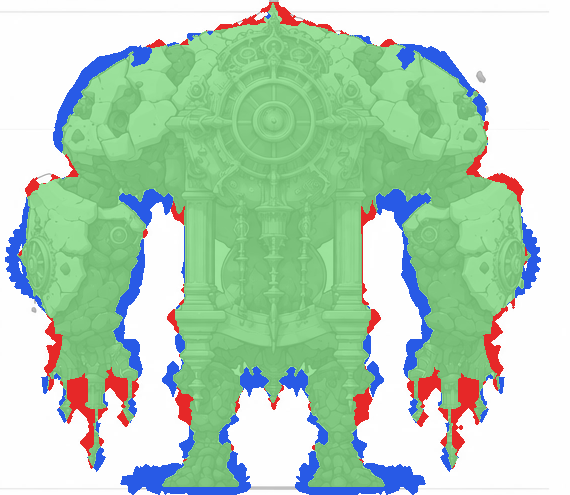
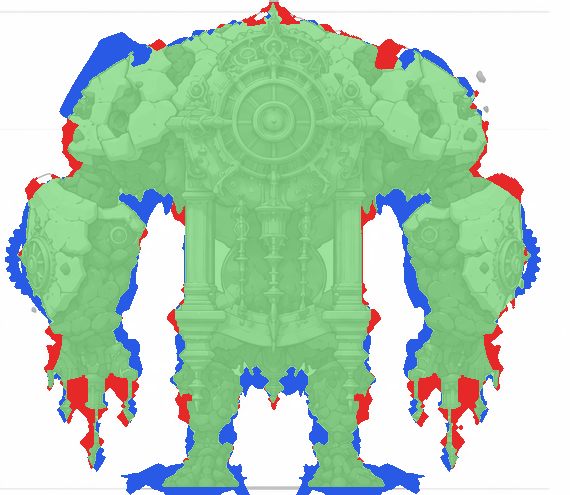
Crust breaks out along its cracks; smoother plate walls and hole floors
Missing cells drop to rock depth, cracks step the plates, walls are relaxed
along a narrow band, materials are chosen by depth below the smooth surface,
and hole floors get broad lumps so the ink lines do not hatch them.

Claude-Session: https://claude.ai/code/session_01FNFarjoLRDbQgoSADGzhtj

diff --git a/golem/rockform.py b/golem/rockform.py
@@ -53,11 +53,14 @@ def _variable_seeds(bm, rng, size_range):
 def faceted(ob, seed, size_range=(0.10, 0.30), relief=0.035, tilt_deg=14, flatten=0.85,
             crack_p=0.55, crack_w=0.018, crack_d=0.016, crease_w=0.06,
             spike_p=0.12, spike_h=0.07, dent_p=0.12, dent_d=0.035, warp=0.06, warp_freq=4.0, smooth=2,
-            ink="cracks"):
+            ink="cracks", missing_p=0.0, missing_d=0.14, step_cracks=False, wall_w=0.025):
     """Break a smooth surface into irregular facets, spikes, dents and cracks.
 
     ink: which cell borders get a Freestyle edge mark (the sheet's ink lines):
     "cracks", "all" or None.
+    missing_p: share of cells that drop to missing_d below the surface (a
+    plate broken out along its cracks).  step_cracks: no crease blending
+    across cracks, so the plates on either side sit at different heights.
     """
     rng = random.Random(seed)
     bm = bmesh.new()
@@ -81,7 +84,9 @@ def faceted(ob, seed, size_range=(0.10, 0.30), relief=0.035, tilt_deg=14, flatte
         n = (Matrix.Rotation(math.radians(rng.uniform(0, tilt_deg)), 3, axis) @ n).normalized()
         kind = rng.random()
         h = rng.uniform(-relief * 0.4, relief)
-        if kind < spike_p:
+        if rng.random() < missing_p:
+            planes.append(("missing", s, n, size, 0.0))
+        elif kind < spike_p:
             planes.append(("spike", s + vn[vi] * h, n, size, spike_h * rng.uniform(0.6, 1.3)))
         elif kind < spike_p + dent_p:
             planes.append(("dent", s + vn[vi] * (h - dent_d * rng.uniform(0.6, 1.3)), n, size, 0.0))
@@ -97,6 +102,8 @@ def faceted(ob, seed, size_range=(0.10, 0.30), relief=0.035, tilt_deg=14, flatte
 
     def offset(i, v, nv):
         kind, c, n, size, peak = planes[i]
+        if kind == "missing":
+            return -missing_d
         den = nv.dot(n)
         if abs(den) < 0.2:
             den = 0.2 if den >= 0 else -0.2
@@ -106,9 +113,13 @@ def faceted(ob, seed, size_range=(0.10, 0.30), relief=0.035, tilt_deg=14, flatte
             t += peak * max(0.0, 1.0 - 2.2 * r)
         return max(-0.12, min(0.16, t))
 
+    def is_missing(i):
+        return planes[i][0] == "missing"
+
     woff = Vector((rng.uniform(0, 99), rng.uniform(0, 99), rng.uniform(0, 99)))
     disp = {}
     cell = {}
+    walls = set()
     for v in bm.verts:
         nv = vn[v.index]
         # warp the lookup point so cell borders wander instead of running straight
@@ -118,12 +129,17 @@ def faceted(ob, seed, size_range=(0.10, 0.30), relief=0.035, tilt_deg=14, flatte
         cell[v.index] = i
         e = (d2 - d1) * 0.5
         t = offset(i, v.co, nv)
-        if e < crease_w:
-            # meet the neighbour facet along a crease instead of a step
+        sharp = is_missing(i) or is_missing(j) or (step_cracks and crack(i, j))
+        # meet the neighbour facet along a crease; steps get a short steep slope
+        # (several vertex rows) instead of one stretched wall
+        bw = wall_w if sharp else crease_w
+        if sharp and e < wall_w * 1.8:
+            walls.add(v)
+        if e < bw:
             tj = offset(j, v.co, nv)
-            w = 0.5 * (1 - e / crease_w)
+            w = 0.5 * (1 - e / bw)
             t = t * (1 - w) + tj * w
-        if e < crack_w and crack(i, j):
+        if e < crack_w and crack(i, j) and not is_missing(i):
             t -= crack_d * (1 - e / crack_w) ** 1.5
         disp[v] = t
     # relax the displacement a little: removes voxel stair-steps along borders
@@ -132,6 +148,15 @@ def faceted(ob, seed, size_range=(0.10, 0.30), relief=0.035, tilt_deg=14, flatte
         for v, t in disp.items():
             nb = [disp[e.other_vert(v)] for e in v.link_edges]
             new[v] = 0.5 * t + 0.5 * sum(nb) / len(nb) if nb else t
+        disp = new
+    # steps between plates: extra relaxing along the wall band only, so the
+    # wall follows the crack line instead of the voxel grid
+    for _ in range(8):
+        new = dict(disp)
+        for v in walls:
+            nb = [disp[e.other_vert(v)] for e in v.link_edges]
+            if nb:
+                new[v] = 0.4 * disp[v] + 0.6 * sum(nb) / len(nb)
         disp = new
     for v, t in disp.items():
         v.co += vn[v.index] * t
@@ -191,8 +216,28 @@ def _blob(bm_out, center, normal, size, rng, jag=0.25, min_depth=0.0):
     bpy.data.meshes.remove(me)
 
 
+def _depth_materials(ob, surface, thickness, material, rock_material, seed):
+    """Faces deeper than the crust are rock (with a rough floor); the rest white."""
+    me = ob.data
+    rock_idx = [i for i, m in enumerate(me.materials) if m == rock_material][0]
+    white_idx = [i for i, m in enumerate(me.materials) if m == material][0]
+    off = Vector((seed * 1.3, seed * 2.1, seed * 0.7))
+    floor_verts = set()
+    for poly in me.polygons:
+        _, _, _, dist = surface.find_nearest(poly.center)
+        if dist is not None and dist > thickness:
+            poly.material_index = rock_idx
+            floor_verts.update(poly.vertices)
+        else:
+            poly.material_index = white_idx
+    for vi in floor_verts:   # broad lumps only: fine noise turns into hatching under the ink lines
+        v = me.vertices[vi]
+        v.co += v.normal * (0.018 * noise.noise(v.co * 3.5 + off))
+    me.update()
+
+
 def crust(name, volumes, material, rock_material, seed, voxel=0.011, thickness=0.085, holes=18,
-          hole_size=(0.13, 0.32), keep=None, extra_cuts=(), **kw):
+          hole_size=(0.13, 0.32), keep=None, extra_cuts=(), missing_p=0.2, **kw):
     """White crust over rock, faceted and cracked, torn open in patches.
 
     The faceted solid is cut with irregular blobs (Boolean).  Cut faces get
@@ -204,10 +249,11 @@ def crust(name, volumes, material, rock_material, seed, voxel=0.011, thickness=0
     outer = stone.carrier(name, volumes, voxel=voxel, smooth=6)
     outer.data.materials.append(material)
     outer.data.materials.append(rock_material)
-    faceted(outer, seed, size_range=(0.25, 0.7), relief=0.016, tilt_deg=6, flatten=0.85, crack_p=0.6,
-            crack_w=0.016, crack_d=0.035, crease_w=0.12, spike_p=0.0, dent_p=0.06, dent_d=0.02, warp=0.08,
-            smooth=1, **kw)
+    # the smooth surface before breaking it: depth below it decides crust vs rock
     surface = BVHTree.FromObject(outer, bpy.context.evaluated_depsgraph_get())
+    faceted(outer, seed, size_range=(0.22, 0.6), relief=0.03, tilt_deg=7, flatten=0.85, crack_p=0.65,
+            crack_w=0.016, crack_d=0.03, crease_w=0.12, spike_p=0.0, dent_p=0.05, dent_d=0.02, warp=0.08,
+            smooth=1, missing_p=missing_p, missing_d=thickness * 1.6, step_cracks=True, **kw)
     pts = [v.co.copy() for v in outer.data.vertices]
     nrm = [v.normal.copy() for v in outer.data.vertices]
     cut = bmesh.new()
@@ -240,6 +286,7 @@ def crust(name, volumes, material, rock_material, seed, voxel=0.011, thickness=0
         placed.append((Vector(c), max(r)))
     if not placed:
         cut.free()
+        _depth_materials(outer, surface, thickness, material, rock_material, seed)
         return outer
     cme = bpy.data.meshes.new(name + "_cut")
     cut.to_mesh(cme)
@@ -259,26 +306,7 @@ def crust(name, volumes, material, rock_material, seed, voxel=0.011, thickness=0
     outer.data = new
     bpy.data.meshes.remove(old)
     bpy.data.objects.remove(cutter, do_unlink=True)
-    # material by depth, and roughen the rock floors
-    me = outer.data
-    rock_idx = [i for i, m in enumerate(me.materials) if m == rock_material][0]
-    white_idx = [i for i, m in enumerate(me.materials) if m == material][0]
-    off = Vector((seed * 1.3, seed * 2.1, seed * 0.7))
-    floor_verts = set()
-    for poly in me.polygons:
-        if poly.material_index != rock_idx:
-            continue
-        c = poly.center
-        loc, _, _, dist = surface.find_nearest(c)
-        if dist is not None and dist < thickness:
-            poly.material_index = white_idx
-        else:
-            floor_verts.update(poly.vertices)
-    for vi in floor_verts:
-        v = me.vertices[vi]
-        b = 1.0 - abs(noise.noise(v.co * 9 + off))
-        v.co += v.normal * (0.03 * b * b - 0.01)
-    me.update()
+    _depth_materials(outer, surface, thickness, material, rock_material, seed)
     return outer
 
 
@@ -319,8 +347,8 @@ def bark_flap(name, center, radius, a0, a1, z_top, length, peel, material, seed,
     parts = [geo._link(name, bm, material)]
     if drip:
         am = (a0 + a1) * 0.5 + (a1 - a0) * 0.2
-        rb = radius + peel + curl
-        x, y, z = cx + rb * math.cos(am), cy + rb * math.sin(am), z_top - length * 0.92
+        rb = radius + peel * 0.7 + curl * 0.8
+        x, y, z = cx + rb * math.cos(am), cy + rb * math.sin(am), z_top - length * 0.78
         pts = geo.catmull_rom([(x, y, z), (x, y, z - 0.06), (x + 0.005, y, z - 0.12)], 3)
         rad = [0.022 * (1 - i / (len(pts) - 1)) ** 0.6 + 0.004 for i in range(len(pts))]
         parts.append(geo.tube(name + "_drip", pts, rad, material, 8))

diff --git a/golem/limbs.py b/golem/limbs.py
@@ -282,14 +282,14 @@ def build(mats, seed=1):
     leg = ([((0.44, -0.10, 0.82), (0.22, 0.27, 0.18), 2.0), ((0.44, -0.05, 0.96), (0.2, 0.2, 0.12), 2.0)]
            + _capsule((0.44, -0.06, 0.70), (0.44, -0.10, 0.2), 0.11, 0.13)
            + [((0.6, -0.13, 0.065), (0.34, 0.42, 0.08), 2.2), ((0.48, -0.12, 0.13), (0.17, 0.18, 0.07), 2.0)])
-    left += rock("rock_leg.L", leg, mats, seed + 24, cobble=0.12, spikes=0.18)
+    left += rock("rock_leg.L", leg, mats, seed + 24, cobble=0.12, spikes=0.07)
     left += rockform.bark_flap("knee_cuff.L", (0.44, -0.08), 0.2, -2.3, -0.9, 0.93, 0.2, 0.05, mats["rock_light"],
                                seed + 27, curl=0.03)
-    for k, x in enumerate((0.72, 0.17)):
+    for k, (x, y_b) in enumerate(((0.66, -0.2), (0.2, -0.1))):
         bell = geo.catmull_rom([(0.0, 0.66), (0.01, 0.70), (0.03, 0.74), (0.07, 0.77), (0.078, 0.79), (0.05, 0.82),
                                 (0.035, 0.85), (0.042, 0.87), (0.02, 0.9), (0.0, 0.92)], 2)
-        left.append(geo.lathe(f"bell_{k}.L", bell, 24, mats["brass"], matrix=geo.axis_matrix((x, -0.06, 0), (0, 0, 1))))
-        left.append(geo.cylinder(f"bell_arm_{k}.L", (x, -0.06, 0.83), (0.44 + (x - 0.44) * 0.4, -0.03, 0.83), 0.02,
+        left.append(geo.lathe(f"bell_{k}.L", bell, 24, mats["brass"], matrix=geo.axis_matrix((x, y_b, 0), (0, 0, 1))))
+        left.append(geo.cylinder(f"bell_arm_{k}.L", (x, y_b, 0.83), (0.44 + (x - 0.44) * 0.4, -0.08, 0.83), 0.02,
                                  mats["brass"], 8))
 
     # shoulder sockets and drips

diff --git a/golem/stone.py b/golem/stone.py
@@ -270,13 +270,13 @@ def build(mats, seed=1):
         return not (abs(c.x) < 0.55 and c.y < -0.25 and c.z < 3.2)
     # opening for the back wheel and its housing
     wheel = [((0.0, 0.5, 2.70), (0.55, 0.22, 0.5))]
-    sh = rockform.crust("shoulder_crust", SHOULDER_VOLUMES, st, rk, seed, holes=64, hole_size=(0.09, 0.26), keep=keep,
+    sh = rockform.crust("shoulder_crust", SHOULDER_VOLUMES, st, rk, seed, holes=7, hole_size=(0.08, 0.16), keep=keep, missing_p=0.26,
                         extra_cuts=wheel)
     parts = [sh]
     for side, sx in (("L", 1), ("R", -1)):
         vol = [((1.37 * sx, 0.07, 1.74), (0.42, 0.38, 0.5), 2.6)]
-        parts.append(rockform.crust(f"gauntlet_crust.{side}", vol, st, rk, seed + (7 if sx > 0 else 13), holes=7,
-                                    hole_size=(0.1, 0.22)))
+        parts.append(rockform.crust(f"gauntlet_crust.{side}", vol, st, rk, seed + (7 if sx > 0 else 13), holes=4,
+                                    hole_size=(0.1, 0.2), missing_p=0.16))
     for ob in parts:
         geo.shade(ob, 40)
     return parts
